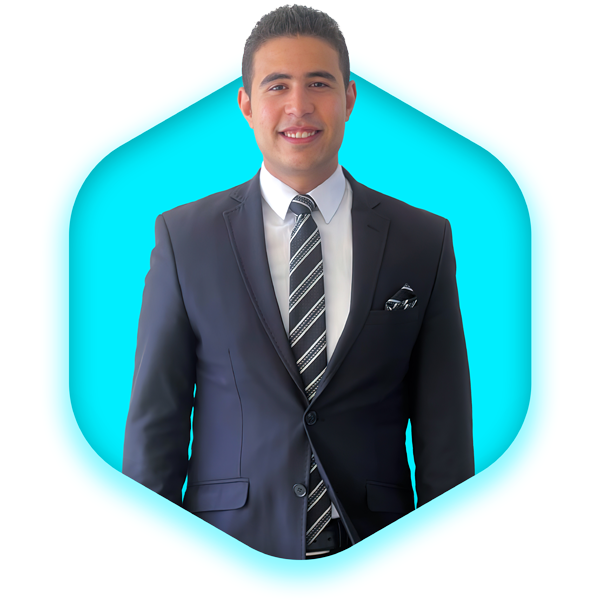
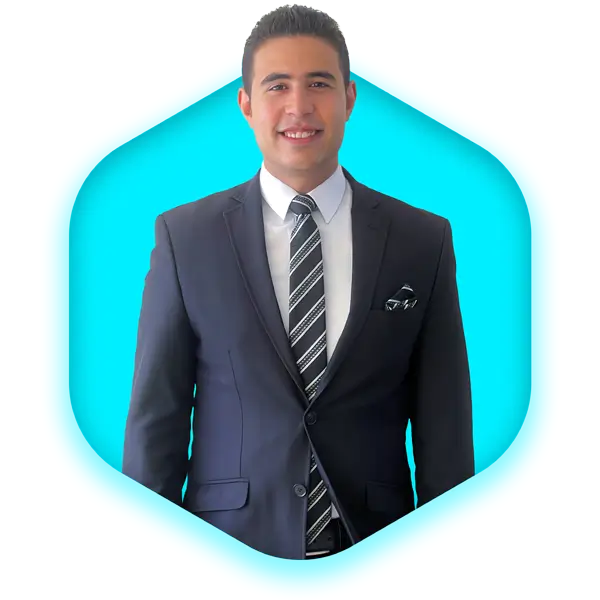
improving image performance

diff --git a/src/Main/home/Home.jsx b/src/Main/home/Home.jsx
@@ -1,6 +1,6 @@
 import React from "react";
 import { TypedSpan } from "../../animations/Exports";
-import Mostafa from "../../assets/600x600.webp";
+import Mostafa from "../../assets/1500x1500.webp";
 import { socialMediaData } from "../Data";
 import { useTranslation } from 'react-i18next';
 import { mainActiveLang } from "../../languages/language/ActiveLang";

diff --git a/src/pages/about/aboutsection/AboutSection.jsx b/src/pages/about/aboutsection/AboutSection.jsx
@@ -1,6 +1,6 @@
 /* eslint-disable jsx-a11y/anchor-is-valid */
 import React from "react";
-import Mostafa from "../../../assets/600x600.webp";
+import Mostafa from "../../../assets/1500x1500.webp";
 import { Link } from "react-router-dom";
 import { useTranslation } from 'react-i18next';
 import { mainActiveLang } from '../../../languages/language/ActiveLang';

diff --git a/src/Main/Data.js b/src/Main/Data.js
@@ -8,7 +8,6 @@ import { FaBloggerB, FaInfo } from "react-icons/fa";
 import { HiHome } from "react-icons/hi";
 import { ImProfile } from "react-icons/im";
 /* IMPORTING HEADER ICONS */
-import { BsFillClipboardDataFill } from "react-icons/bs";
 import { IoBriefcase } from "react-icons/io5";
 import { AiTwotonePhone } from "react-icons/ai";
 
